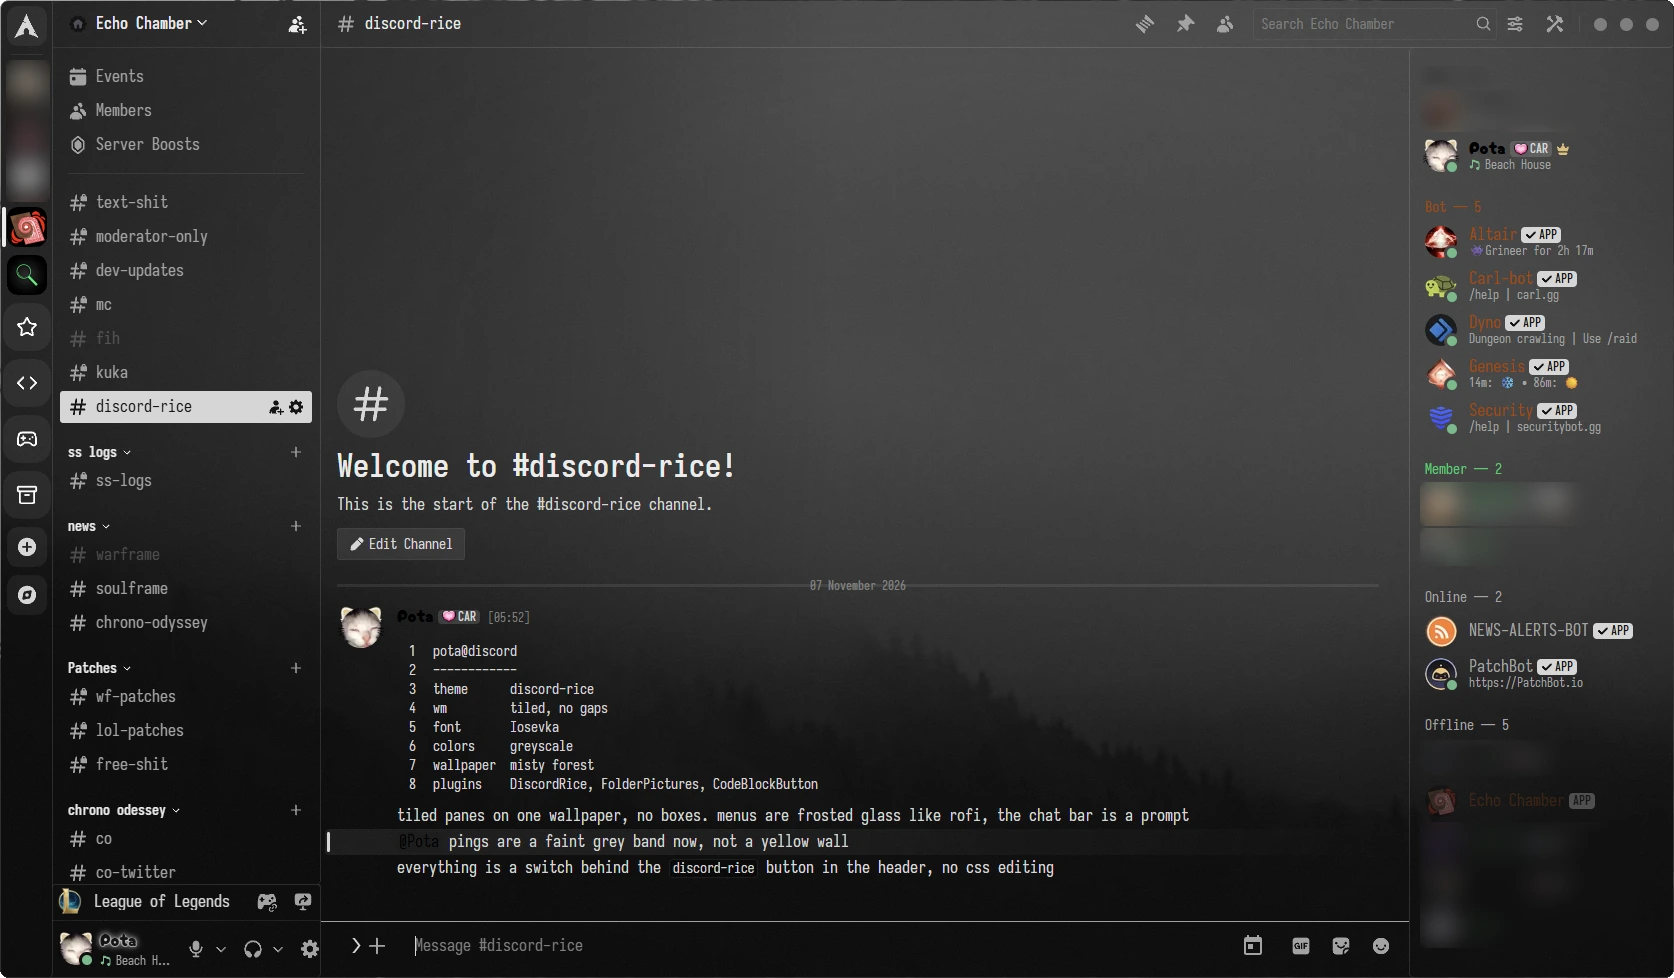
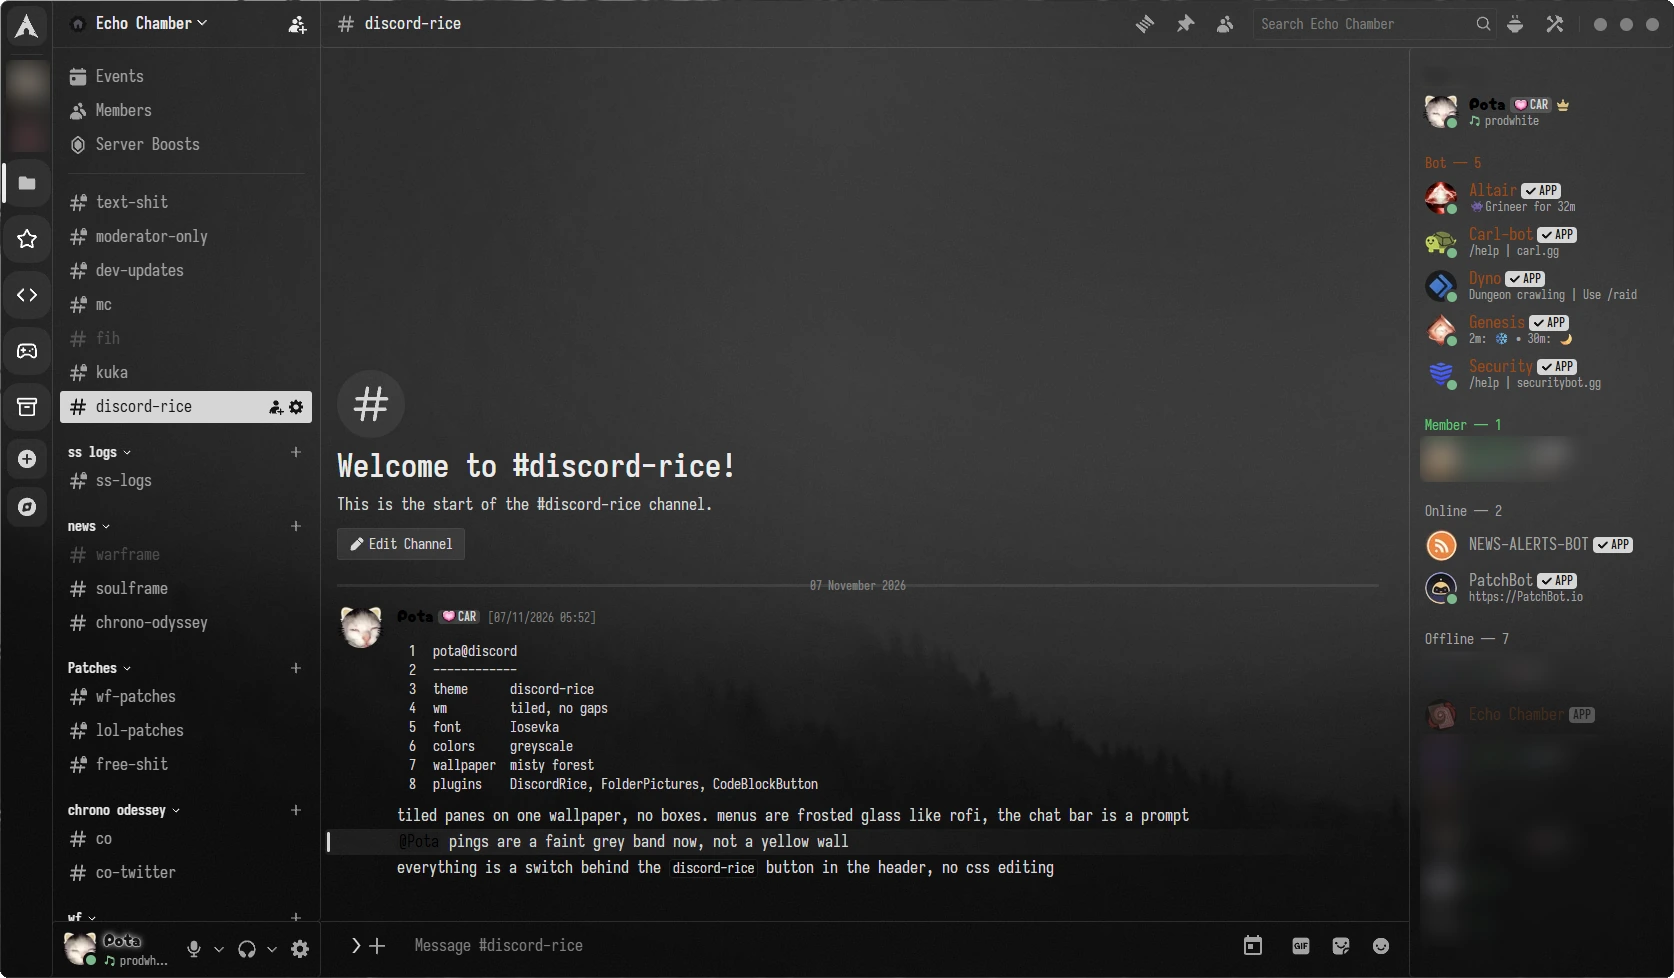
Rice bowl header button, room for the settings cog, fuller README
- The button that opens the discord-rice window is a filled steaming rice
  bowl instead of sliders, matching the weight of Discord's own icons.
- The user panel kept almost no padding (Discord works it out from the
  server list padding, which the rice halves) and the row ran past the
  panel, so the settings cog sat on the edge. Pin the padding and let the
  name shrink first. Theme 3.3.1.
- README: midnight is credited as the layout plumbing underneath, not the
  look; adds calls, the hidden video call and profile buttons, the header
  search fix, Pinterest wallpaper links and the colour block. New main
  screenshot.

diff --git a/discord-rice.theme.css b/discord-rice.theme.css
@@ -2,7 +2,7 @@
  * @name discord-rice
  * @description Linux-rice Discord: misty wallpaper, tiled panes split by thin lines, Iosevka, greyscale, plain folders, no top bar, no store or quest clutter.
  * @author Pota
- * @version 3.3.0
+ * @version 3.3.1
  * @license GPL-3.0-or-later
  * @source https://github.com/Plyxen/discord-rice
  */
@@ -479,6 +479,22 @@ body .videoControls_qOjco6 > * {
 }
 .panels_pog62O /* user panel */ {
     box-shadow: inset 0 1px var(--line), inset -1px 0 var(--line);
+}
+/* Discord works out the user panel's padding from the server list padding, which the rice halves, so the
+   row lost its padding and ran past the panel, putting the settings cog on the edge. Pin the padding, and
+   let the name shrink (Discord only allows that under 260px) so the buttons always fit */
+.container_g6VwXp /* user panel row */ {
+    padding: 8px 5px 8px 8px; /* 5px on the right: the cog has its own room inside its button */
+    gap: 4px;
+}
+.accountPopoutButtonWrapper_g6VwXp /* avatar and name */ {
+    min-width: 0;
+    margin-inline-start: 0;
+    padding: 4px;
+}
+.buttons_g6VwXp /* mic, headphones, settings */ {
+    flex-shrink: 0;
+    gap: 4px;
 }
 .chat_z_gUBg > .subtitleContainer_z_gUBg /* chat header */,
 .container_zrUwGA > .container_ybUK7Z /* friends header */,

diff --git a/vencord-plugins/discordRice/index.tsx b/vencord-plugins/discordRice/index.tsx
@@ -33,13 +33,12 @@ const ENTRY_KEY = "vencord_discord_rice";
 
 const HeaderBarIcon = findComponentByCodeLazy(".HEADER_BAR_BADGE_BOTTOM,", 'position:"bottom"');
 
-function SlidersIcon() {
+// a steaming bowl of rice, filled like Discord's own header icons
+function RiceIcon() {
     return (
-        <svg viewBox="0 0 24 24" width={18} height={18} fill="none" stroke="currentColor" strokeWidth={2} strokeLinecap="round">
-            <path d="M4 6h9M17 6h3M4 12h3M11 12h9M4 18h11M19 18h1" />
-            <circle cx="15" cy="6" r="2" />
-            <circle cx="9" cy="12" r="2" />
-            <circle cx="17" cy="18" r="2" />
+        <svg viewBox="0 0 24 24" width={20} height={20}>
+            <path fill="currentColor" d="M2 12.5h20a10 8 0 0 1-20 0zM8 19.5h8V21a1 1 0 0 1-1 1H9a1 1 0 0 1-1-1zM5 11a7 4 0 0 1 14 0z" />
+            <path fill="none" stroke="currentColor" strokeWidth={1.8} strokeLinecap="round" d="M9.5 1.8c-.9.9.9 1.8 0 2.7M14.5 1.8c-.9.9.9 1.8 0 2.7" />
         </svg>
     );
 }
@@ -50,7 +49,7 @@ function RiceButton() {
             className="vc-discord-rice-btn"
             onClick={openRicePopup}
             tooltip="discord-rice"
-            icon={SlidersIcon}
+            icon={RiceIcon}
         />
     );
 }

diff --git a/vencord-plugins/discordRice/ui.tsx b/vencord-plugins/discordRice/ui.tsx
@@ -249,7 +249,7 @@ function About() {
                 <li>right-click a server folder → <kbd>Folder look</kbd>, or use the folders tab here.</li>
                 <li>select text in the chat bar, then the <kbd>```</kbd> button wraps it in a code block.</li>
                 <li>drag the window by the empty space in the channel header, next to the channel name.</li>
-                <li>this window is behind the sliders button in the channel header, and in Settings → discord-rice.</li>
+                <li>this window is behind the rice bowl button in the channel header, and in Settings → discord-rice.</li>
             </ul>
         </>
     );

diff --git a/README.md b/README.md
@@ -6,16 +6,16 @@ Discord made to look like a tiling-WM Linux rice, for [Vencord](https://vencord.
 
 ## The theme
 
-`discord-rice.theme.css`, built on [midnight](https://github.com/refact0r/midnight-discord)'s layout.
+`discord-rice.theme.css`. The look is all its own. Underneath, it loads [midnight](https://github.com/refact0r/midnight-discord) for the plumbing: where the panes and the user panel sit, and the window buttons.
 
-- **Tiled, no gaps.** One misty wallpaper behind the whole window, with the columns split by 1px lines. No floating panels, boxes or shadows, and no top bar.
+- **Tiled, no gaps.** One misty wallpaper behind the whole window, with the columns split by 1px lines. No floating panels, boxes or shadows, and no top bar. Calls show the wallpaper behind the tiles too, instead of black.
 - **Greyscale.** Made to sit on a black-and-white desktop. Server icons and folders are black-and-white too. Only status dots, unread badges and red "danger" buttons keep a muted colour.
 - **Terminal touches.** Iosevka everywhere, and the chat bar is a `❯` prompt whose line lights up while you type. The selected channel is a solid bar like ranger's cursor, categories are bold like directories in `ls`, and message times sit in `[brackets]`.
 - **Menus like rofi.** Right-click menus, the emoji/GIF picker and other popouts are dark frosted glass with a thin border.
 - **Plain folders.** A closed folder shows a folder icon instead of a 2×2 grid of tiny server icons. With the folder plugin it can show a picture, an icon or a bit of ASCII instead.
 - **ASCII wallpaper.** With the discord-rice plugin, the wallpaper can be redrawn out of characters, digits or 0s and 1s, like the fetch screenshots on r/unixporn.
-- **Less clutter.** Nitro, Shop and Quests are gone from the DM list, and so are the quest card above your user panel, nameplates behind names, the notification bell in the channel header, and the gift and apps buttons in the chat bar.
-- **Small fixes.** The game page (click the game you're playing) opens as a smaller centred window, so its close button isn't stuck under the window controls. Drag the window by the empty space in the channel header.
+- **Less clutter.** Nitro, Shop and Quests are gone from the DM list, and so are the quest card above your user panel, nameplates behind names, the notification bell in the channel header, the video call button in DMs (voice call stays), and the gift and apps buttons in the chat bar. The DM profile button hides while Discord has it greyed out.
+- **Small fixes.** The game page (click the game you're playing) opens as a smaller centred window, so its close button isn't stuck under the window controls. Drag the window by the empty space in the channel header. On small windows the header search box shrinks so the channel name stays readable.
 
 ### Install
 
@@ -39,13 +39,13 @@ Edits to the file show up live.
 
 ### Options
 
-The easy way is inside Discord: the **sliders button** in the channel header, where the inbox button used to be, opens the discord-rice window, a small terminal-style settings tool with every option below. The same window is under **Settings → discord-rice** (in the Vencord section). It comes from the DiscordRice plugin, which also opens it once the first time you start Discord with it. Changes apply straight away.
+The easy way is inside Discord: the **rice bowl button** in the channel header, where the inbox button used to be, opens the discord-rice window, a small terminal-style settings tool with every option below. The same window is under **Settings → discord-rice** (in the Vencord section). It comes from the DiscordRice plugin, which also opens it once the first time you start Discord with it. Changes apply straight away.
 
 Without the plugin, every option is a CSS variable at the top of the theme file:
 
 | Variable | Default | What it does |
 | --- | --- | --- |
-| `--wallpaper` | misty forest | Any image, e.g. `url('https://i.imgur.com/....jpg')`. imgur, github.io and raw.githubusercontent.com links work. |
+| `--wallpaper` | misty forest | Any image, e.g. `url('https://i.imgur.com/....jpg')`. imgur, Pinterest (`i.pinimg.com`), github.io and raw.githubusercontent.com links work. |
 | `--wallpaper-dim` | `0.5` | How dark the wallpaper is, from 0 to 1. Raise it if text is hard to read. |
 | `--grain` | `on` | Film grain over the wallpaper. |
 | `--font` | `'Iosevka'` | `'figtree'` for midnight's font, `''` for Discord's own. `--code-font` is the same for code blocks. |
@@ -68,6 +68,8 @@ Without the plugin, every option is a CSS variable at the top of the theme file:
 | `--small-user-panel` | `on` | User panel only under the channel list, so the server list runs full height. |
 | `--line`, `--line-focus`, `--float-border` | faint / light grey | The lines between panes, the chat bar's line while typing, and the border around menus (in the `:root` block). |
 | `--mention` | faint grey band | The background of messages that ping you (in the `:root` block). |
+
+The rest of the `:root` block is the colours: text, surfaces, the light-grey accent and the muted status colours, each with a comment saying where it shows up.
 
 The wallpaper is embedded in the theme (the long line at the bottom), so it needs no hosting. `wallpaper.jpg` is the same image, at only 736×414, so for a sharper look point `--wallpaper` at a bigger copy.
 
@@ -96,7 +98,7 @@ After changing a plugin, copy it in again, run `pnpm build`, and restart Discord
 
 ### discord-rice settings
 
-`discordRice` puts a sliders button in the channel header, in place of the inbox button (you can bring the inbox back with the "inbox button" switch). The button opens the discord-rice window: a small terminal-style settings tool, styled like the rest of the rice. The same window is under **Settings → discord-rice** and in the Vencord toolbox, and it opens by itself once, the first time you start Discord with the plugin.
+`discordRice` puts a rice bowl button in the channel header, in place of the inbox button (you can bring the inbox back with the "inbox button" switch). The button opens the discord-rice window: a small terminal-style settings tool, styled like the rest of the rice. The same window is under **Settings → discord-rice** and in the Vencord toolbox, and it opens by itself once, the first time you start Discord with the plugin.
 
 ![The discord-rice window on its look tab: a tab list on the left, font choices, block sliders for corners and gaps, and [x] switches](screenshots/settings.webp)
 
@@ -168,15 +170,15 @@ The presets come in pairs, the same name as ASCII and as an icon:
 
 ## When Discord updates break it
 
-Most of the layout comes from midnight's hosted build, and midnight's maintainer fixes it when Discord renames its classes, so those fixes arrive here automatically. The extras mostly match links, labels and class-name prefixes (`href`, `aria-label`, `[class*='folderPreview_']`), which usually survive renames.
+The layout plumbing comes from midnight's hosted build, and midnight's maintainer fixes it when Discord renames its classes, so those fixes arrive here automatically. The extras mostly match links, labels and class-name prefixes (`href`, `aria-label`, `[class*='folderPreview_']`), which usually survive renames.
 
-A few rules use Discord's exact class names and may need updating after a big update: the pane lines, the prompt, the selected channel bar, the timestamp brackets, menu styling, the game page window and the header search. If one stops working, the rest of the theme still works.
+A few rules use Discord's exact class names and may need updating after a big update: the pane lines, the prompt, the selected channel bar, the timestamp brackets, menu styling, the game page window, the header search and the user panel spacing. If one stops working, the rest of the theme still works.
 
 ## Credits and licence
 
 discord-rice is licensed under the [GPL-3.0-or-later](LICENSE), like Vencord. Third-party licence texts are in [THIRD_PARTY_NOTICES.md](THIRD_PARTY_NOTICES.md).
 
-- Layout: [midnight-discord](https://github.com/refact0r/midnight-discord) by refact0r (MIT), loaded from its hosted build.
+- Layout plumbing: [midnight-discord](https://github.com/refact0r/midnight-discord) by refact0r (MIT), loaded underneath from its hosted build.
 - Font: [Iosevka](https://github.com/be5invis/Iosevka) by Belleve Invis (OFL), via [Fontsource](https://fontsource.org) on jsDelivr.
 - Home icon: the Arch Linux logo from [Simple Icons](https://simpleicons.org) (CC0). The logo is a trademark of Arch Linux.
 - Folder icons: [Lucide](https://lucide.dev) (ISC; a few from [Feather](https://feathericons.com), MIT).
